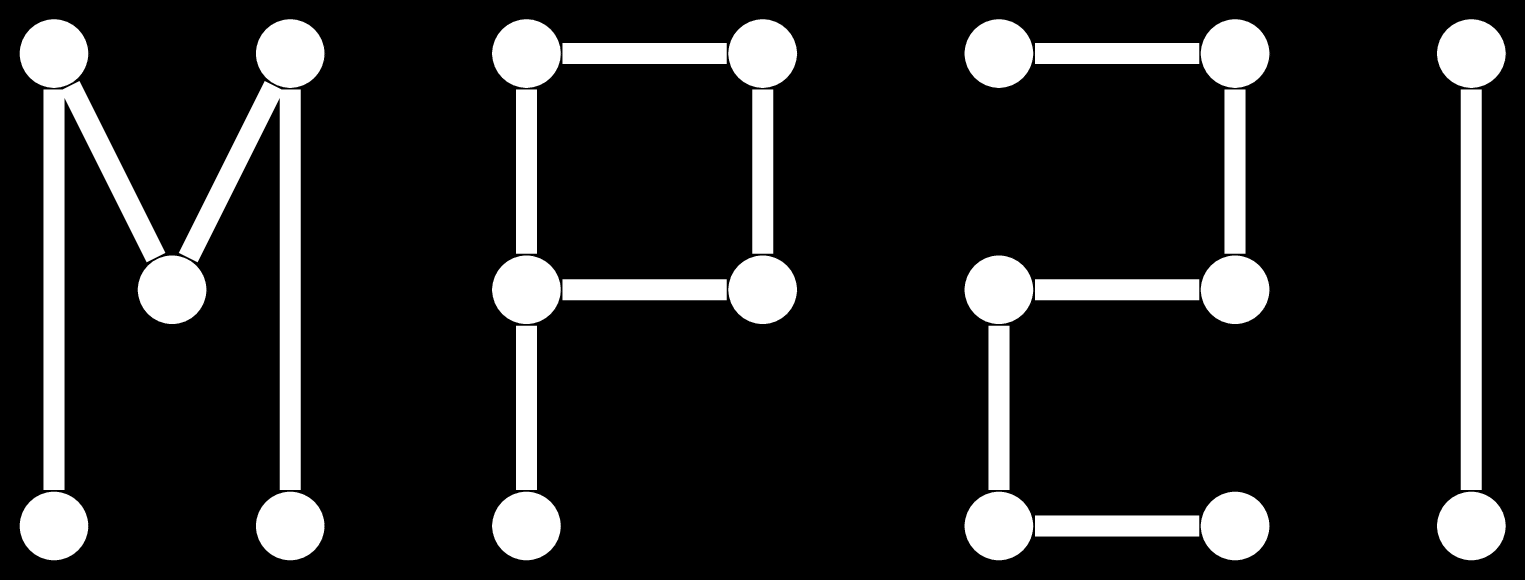
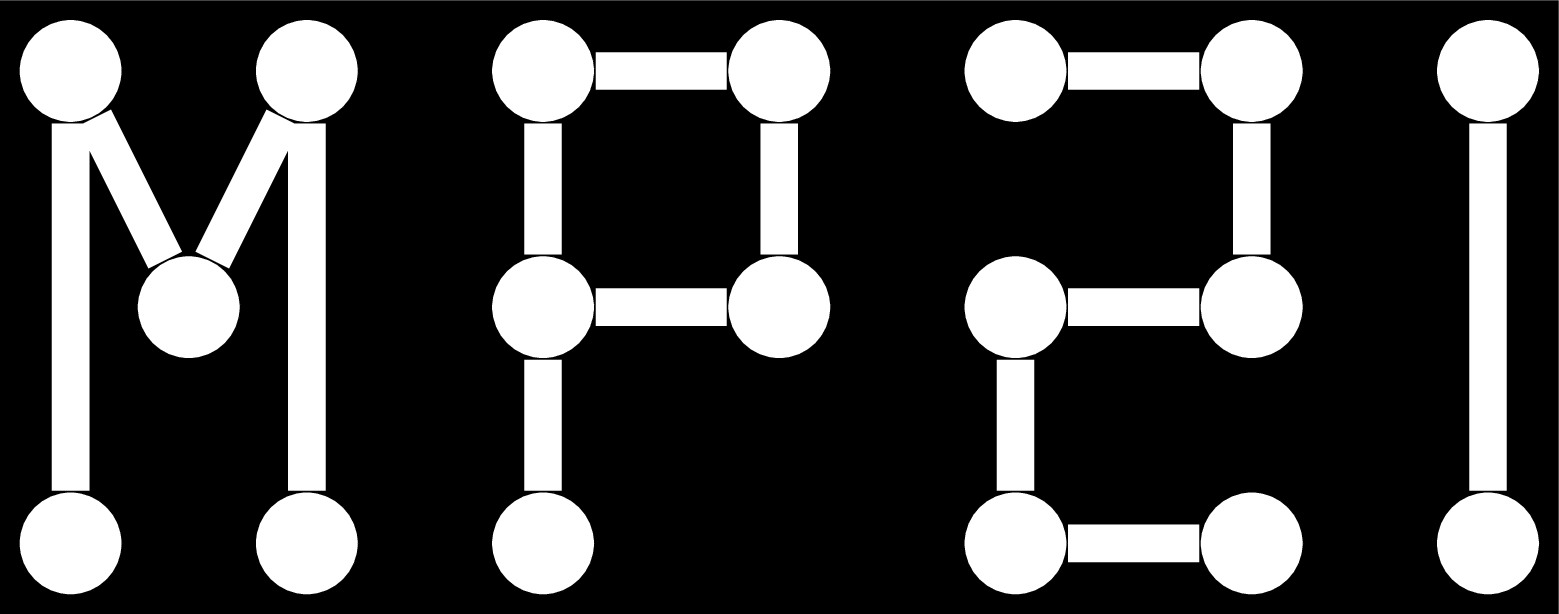
Increase

diff --git a/other/mp2i/mp2i.tex b/other/mp2i/mp2i.tex
@@ -4,29 +4,29 @@
 \usetikzlibrary{backgrounds}
 
 \begin{document}
-    \begin{tikzpicture}[background rectangle/.style={fill=black}, show background rectangle, every node/.style={vertex, fill=white}]
+    \begin{tikzpicture}[background rectangle/.style={fill=black}, show background rectangle, every node/.style={vertex, minimum size=25pt, fill=white}]
         \def\h{1}
 
         \foreach \x/\y in {0/0, 0/4, 1/2, 2/4, 2/0}
-            \node[vertex] (M\x-\y) at (\x*\h, \y*\h) {};
-        \draw[color=white, line width=5pt] (M0-0) -- (M0-4) -- (M1-2) -- (M2-4) -- (M2-0);
+            \node (M\x-\y) at (\x*\h, \y*\h) {};
+        \draw[color=white, line width=9pt] (M0-0) -- (M0-4) -- (M1-2) -- (M2-4) -- (M2-0);
 
         \begin{scope}[xshift=4cm]
             \foreach \x/\y in {0/0, 0/4, 2/4, 2/2, 0/2}
-                \node[vertex] (P\x-\y) at (\x*\h, \y*\h) {};
-            \draw[color=white, line width=5pt] (P0-0) -- (P0-2) -- (P0-4) -- (P2-4) -- (P2-2) -- (P0-2);
+                \node (P\x-\y) at (\x*\h, \y*\h) {};
+            \draw[color=white, line width=9pt] (P0-0) -- (P0-2) -- (P0-4) -- (P2-4) -- (P2-2) -- (P0-2);
         \end{scope}
 
         \begin{scope}[xshift=8cm]
             \foreach \x/\y in {0/4, 2/4, 2/2, 0/2, 0/0, 2/0}
-                \node[vertex] (D\x-\y) at (\x*\h, \y*\h) {};
-            \draw[color=white, line width=5pt] (D0-4) -- (D2-4) -- (D2-2) -- (D0-2) -- (D0-0) -- (D2-0);
+                \node (D\x-\y) at (\x*\h, \y*\h) {};
+            \draw[color=white, line width=9pt] (D0-4) -- (D2-4) -- (D2-2) -- (D0-2) -- (D0-0) -- (D2-0);
         \end{scope}
 
         \begin{scope}[xshift=12cm]
             \node (I0) at (0, 0) {};
             \node (I1) at (0, 4) {};
-            \draw[color=white, line width=5pt] (I0) -- (I1);
+            \draw[color=white, line width=9pt] (I0) -- (I1);
         \end{scope}
     \end{tikzpicture}
 \end{document}
